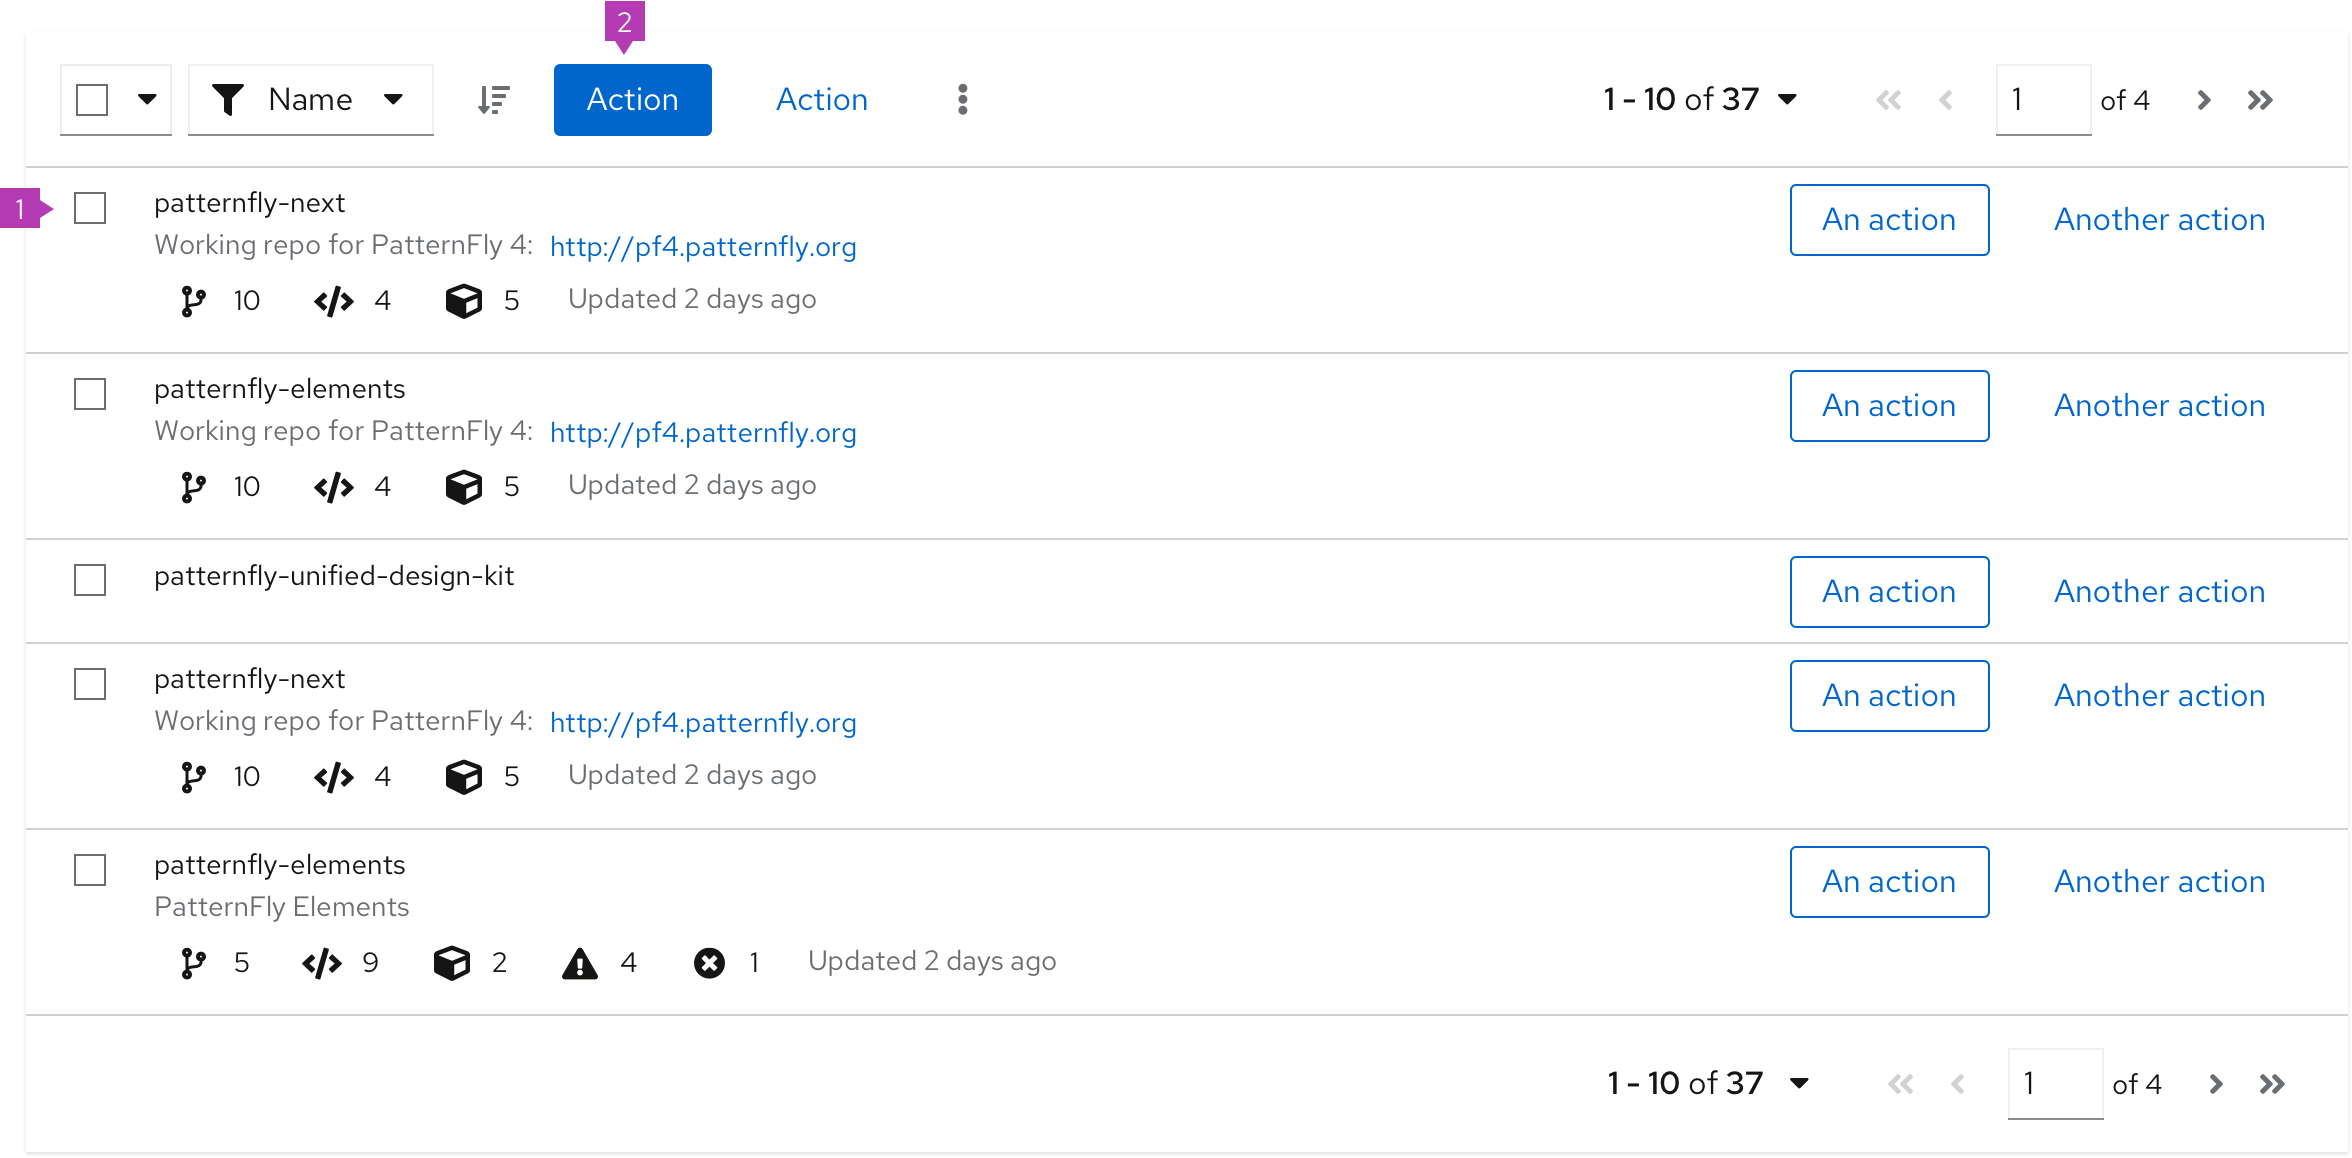
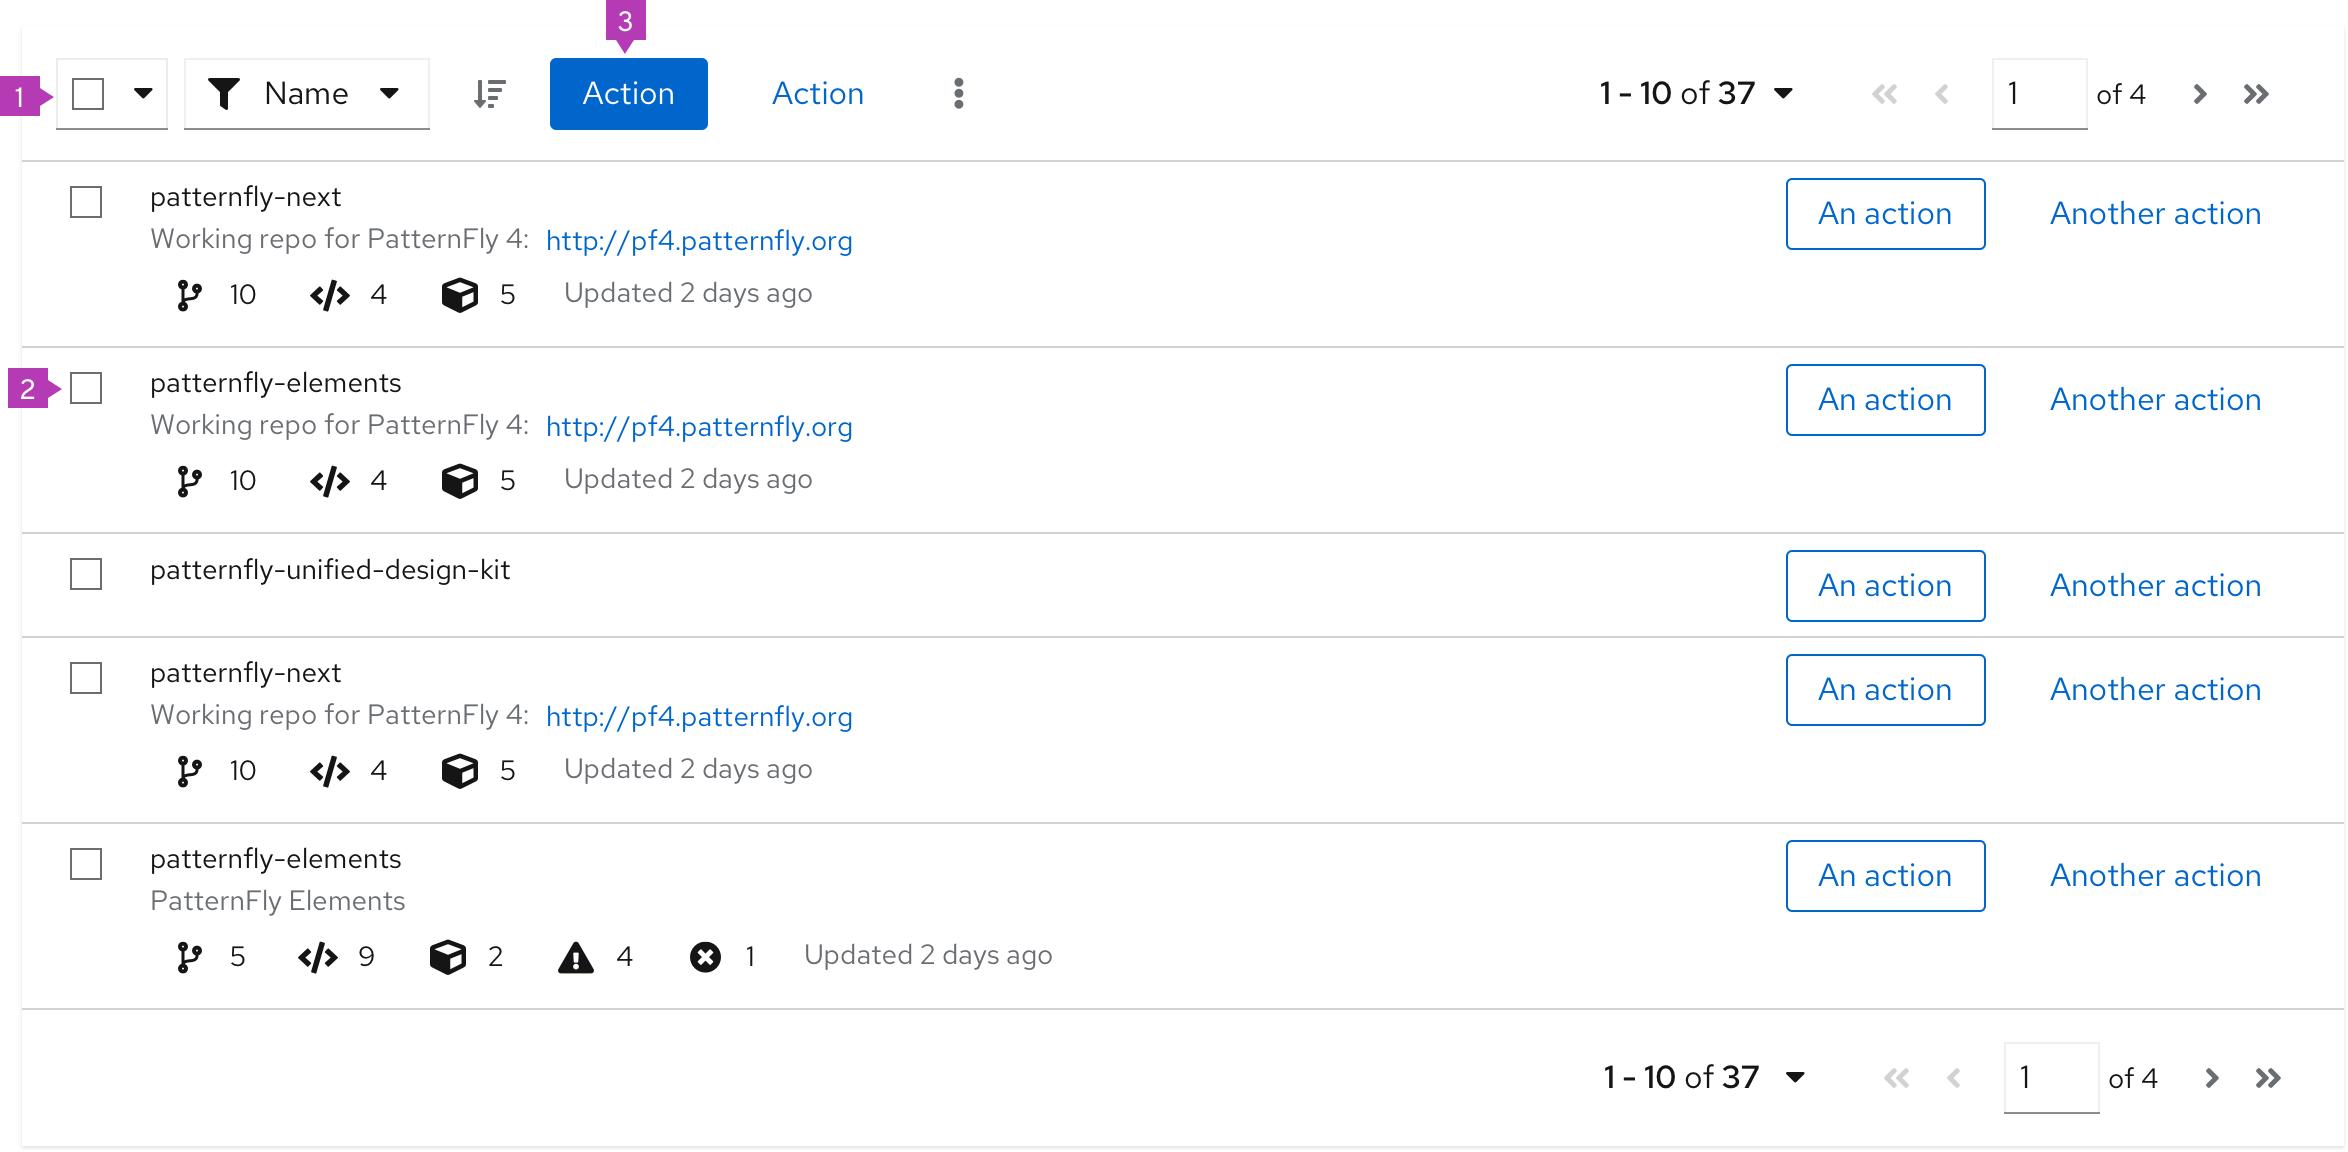
Updating changes

diff --git a/packages/v4/src/content/design-guidelines/usage-and-behavior/lists-and-tables/lists-and-tables.md b/packages/v4/src/content/design-guidelines/usage-and-behavior/lists-and-tables/lists-and-tables.md
@@ -19,7 +19,7 @@ Use [tables](#tables) when:
 ## Data lists
 
 ### How to use
-Think of each row in a data list as a container for some formatted content. In PatternFly 4, data list rows can accept any [layout](/documentation/react/layouts/bullseye) supported by the design system as long as all rows apply the same layout. Here are some common layouts that may be useful in a data list:
+Think of each row in a data list as a container for some formatted content. In PatternFly, data list rows can accept any [layout](/documentation/react/layouts/bullseye) supported by the design system as long as all rows apply the same layout. Here are some common layouts that may be useful in a data list:
 
 * **[Grid](/documentation/react/layouts/grid):** When you want to display content in a responsive grid.
 * **[Level](/documentation/react/layouts/level):** When you want to justify content evenly over the width of the row. It also vertically aligns items in the center of the row.
@@ -42,8 +42,12 @@ The elements mentioned below are similar for a data list with compact or default
 <img src="./img/compact-list.png"  alt="Compact data list"  width="1174"/> 
 
 1. **[Toolbar](/design-guidelines/usage-and-behavior/toolbar):** The toolbar sits above the list and contains controls for manipulating list data. Common actions include filtering, sorting, and pagination.
-2. **Row:** Row height may be variable and sizes to the content. Rows in a data list may take any supported layout.
-3. **Inline actions:** These actions apply only to the current row/item.
+2. **[Bulk selection](/design-guidelines/usage-and-behavior/bulk-selection):** When present, selects all items in a table. If pagination is being used, this will only select items on the current page. See [bulk selection](#/design-guidelines/usage-and-behavior/bulk-selection) for more information.
+3. **Row:** Row height may be variable and sizes to the content. Rows in a data list may take any supported layout.
+4. **Inline actions:** These actions apply only to the current row/item.
+5. **Select checkbox:** Selects this row.
+6. **Global actions:** Actions that apply to all selected items.
+7. **Pagination footer:** When present, provides navigation to additional pages.
 
 ### When to use data list vs. table
 Use a data list when:
@@ -66,10 +70,11 @@ Every data list can be extended with these functionalities:
 ### Actionable data list
 The actionable data list provides checkboxes that enable users to select one or more rows and act on that selection using options in the [toolbar](/design-guidelines/usage-and-behavior/toolbar).
 
-<img src="./img/actionable-list.png"  alt="Actionable list"  width="1174"/> 
+<img src="./img/actionable-list.png"  alt="Actionable list"  width="1172"/> 
 
-1. **Checkbox:** Enables a user to select a row
-2. **Global actions:** Actions that can be applied to all selected items
+1. **[Bulk selection](/design-guidelines/usage-and-behavior/bulk-selection):** When present, selects all items in a table. If pagination is being used, this will only select items on the current page. See [bulk selection](#/design-guidelines/usage-and-behavior/bulk-selection) for more information. 
+2. **Checkbox:** Enables a user to select a row.
+3. **Global actions:** Actions that can be applied to all selected items.
 
 #### When to use and when not
 Use an actionable data list when:
@@ -83,7 +88,7 @@ The expandable list adds an expansion panel to every row to reveal more details 
 
 <img src="./img/expandable-list.png"  alt="Expandable data list"  width="1174"/> 
 
-1. **Expansion caret:** Toggles the expansion open and closed
+1. **Expansion caret:** Toggles the expansion open and closed.
 2. **Expansion panel:** A container that is revealed when the expansion is open. It can accept any supported layout to present additional content to the user.
 
 #### When to use
@@ -112,7 +117,7 @@ The elements mentioned below are similar for a table with compact or default spa
 <img src="./img/compact-data-table.png"  alt="Compact table"  width="1187"/> 
 
 1. **[Toolbar](/design-guidelines/usage-and-behavior/toolbar):** Sits above the table and contains controls for manipulating table data. Common actions include filtering, sorting, and pagination.
-2. **[Select all](/design-guidelines/usage-and-behavior/bulk-selection):** When present, selects all items in a table. If pagination is being used, this will only select items on the current page.
+2. **[Bulk selection](/design-guidelines/usage-and-behavior/bulk-selection):** When present, selects all items in a table. If pagination is being used, this will only select items on the current page. See [bulk selection](#/design-guidelines/usage-and-behavior/bulk-selection) for more information.
 3. **Column headers:** Should align with the content they contain. If the user is able to sort on a column, the first click on the header will sort the content of the table on the content in that column. Subsequent clicks will toggle the direction of the sort. Table data can only be sorted on one column at a time. See [sorting by columns](#sorting-by-columns) for more information on the sort component.
 4. **Select checkbox:** Selects this row
 5. **Global actions:** Actions that apply to all selected items
@@ -132,6 +137,7 @@ Every table can be extended with these functionalities:
 
 * **[Expandable table](#expandable-table)**
 * **[Compound expandable table](#compound-expandable-table)**
+* **[Actionable table](#actionable-table)**
 * **[Sortable table](#sorting-by-columns)**
 
 ### Expandable table
@@ -158,6 +164,21 @@ Use a compound expandable table when:
 * You want multiple expansion panels that relate to specific table columns. 
 * It would not make sense to combine all of this information into a single, simple expansion.
 
+### Actionable table
+The actionable table provides checkboxes that enable users to select one or more rows and act on that selection using options in the [toolbar](/design-guidelines/usage-and-behavior/toolbar).
+
+<img src="./img/actionable-table.png"  alt="Actionable table"  width="1174"/> 
+
+1. **[Bulk selection](/design-guidelines/usage-and-behavior/bulk-selection):** When present, selects all items in a table. If pagination is being used, this will only select items on the current page. See [bulk selection](#/design-guidelines/usage-and-behavior/bulk-selection) for more information. 
+2. **Checkbox:** Enables a user to select a row.
+3. **Global actions:** Actions that can be applied to all selected items.
+
+#### When to use and when not
+Use an actionable table when:
+* You need to enable a user to select and act on multiple items in the table.
+
+Don't use an actionable table when:
+* Actions are restricted to a single row or object. In this case, place actions inline within the row.
 
 ### Sorting by columns
 Sorting by columns is possible for any table variation. Enabling the component within a table eases the ability to scan and read through the content. This option is favored over adding sorting functionality to the [toolbar](/design-guidelines/usage-and-behavior/toolbar).
@@ -192,8 +213,12 @@ Use default spacing when:
 * You don’t have to display a lot of data on one page.
 * You use many visual indicators that are placed in columns, such as icons or charts. 
 
+### Examples
+
+
+
 ## Tables on mobile
-The PatternFly 4 table is designed to be fully responsive. When columns no longer fit within the width of the viewport, columns are stacked so that data in each row is displayed as sets of attribute-value pairs.
+The PatternFly table is designed to be fully responsive. When columns no longer fit within the width of the viewport, columns are stacked so that data in each row is displayed as sets of attribute-value pairs.
 
 <img src="./img/Mobile-data-table-example.png"  alt="Mobile data table"  width="375"/> 
 
